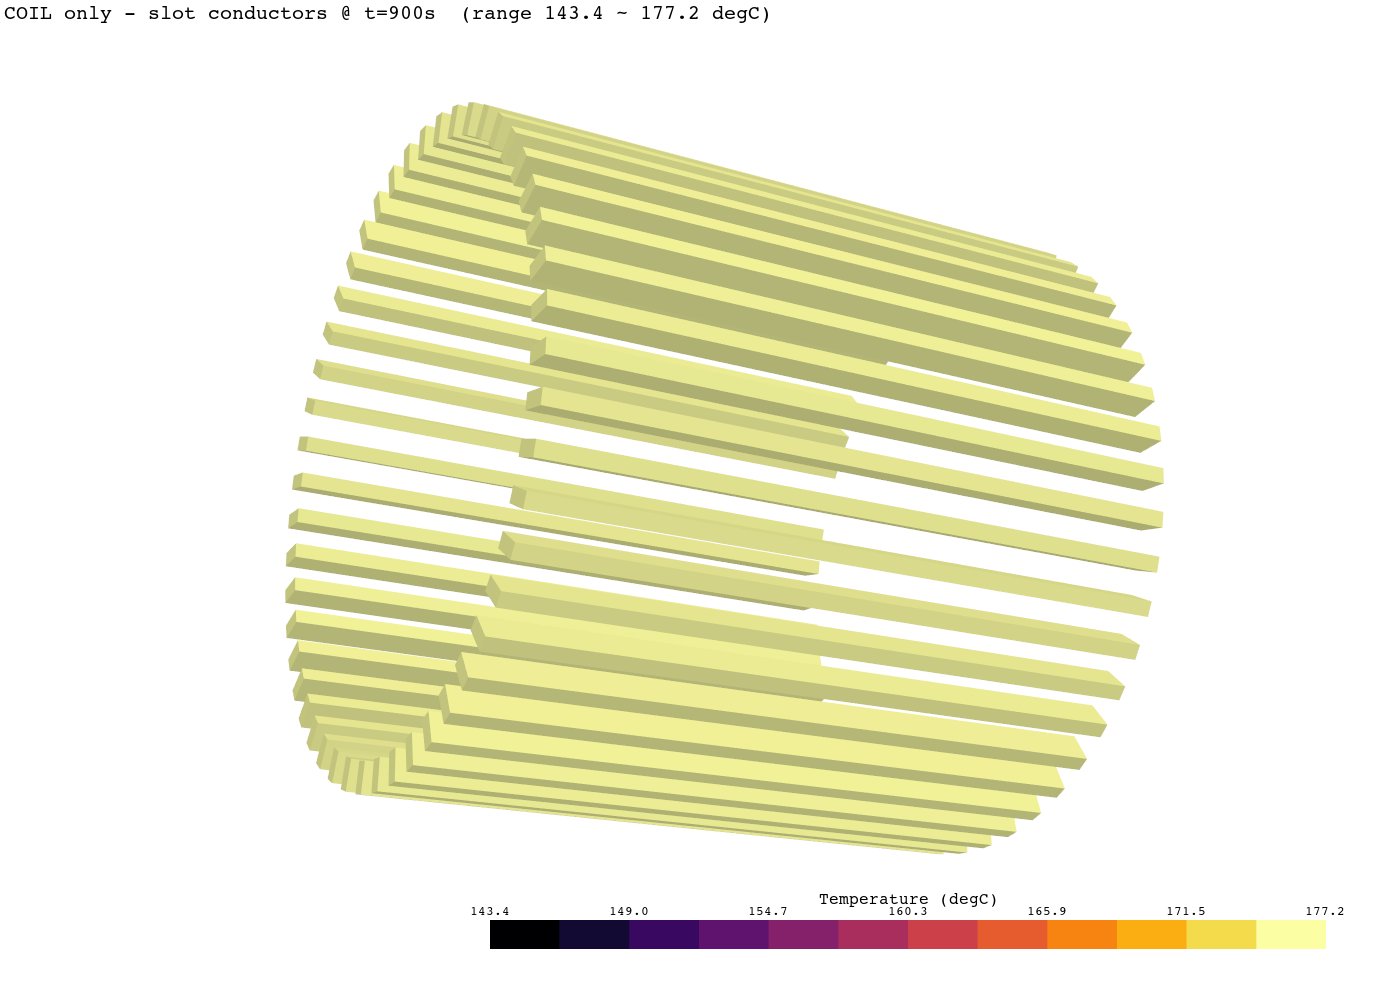
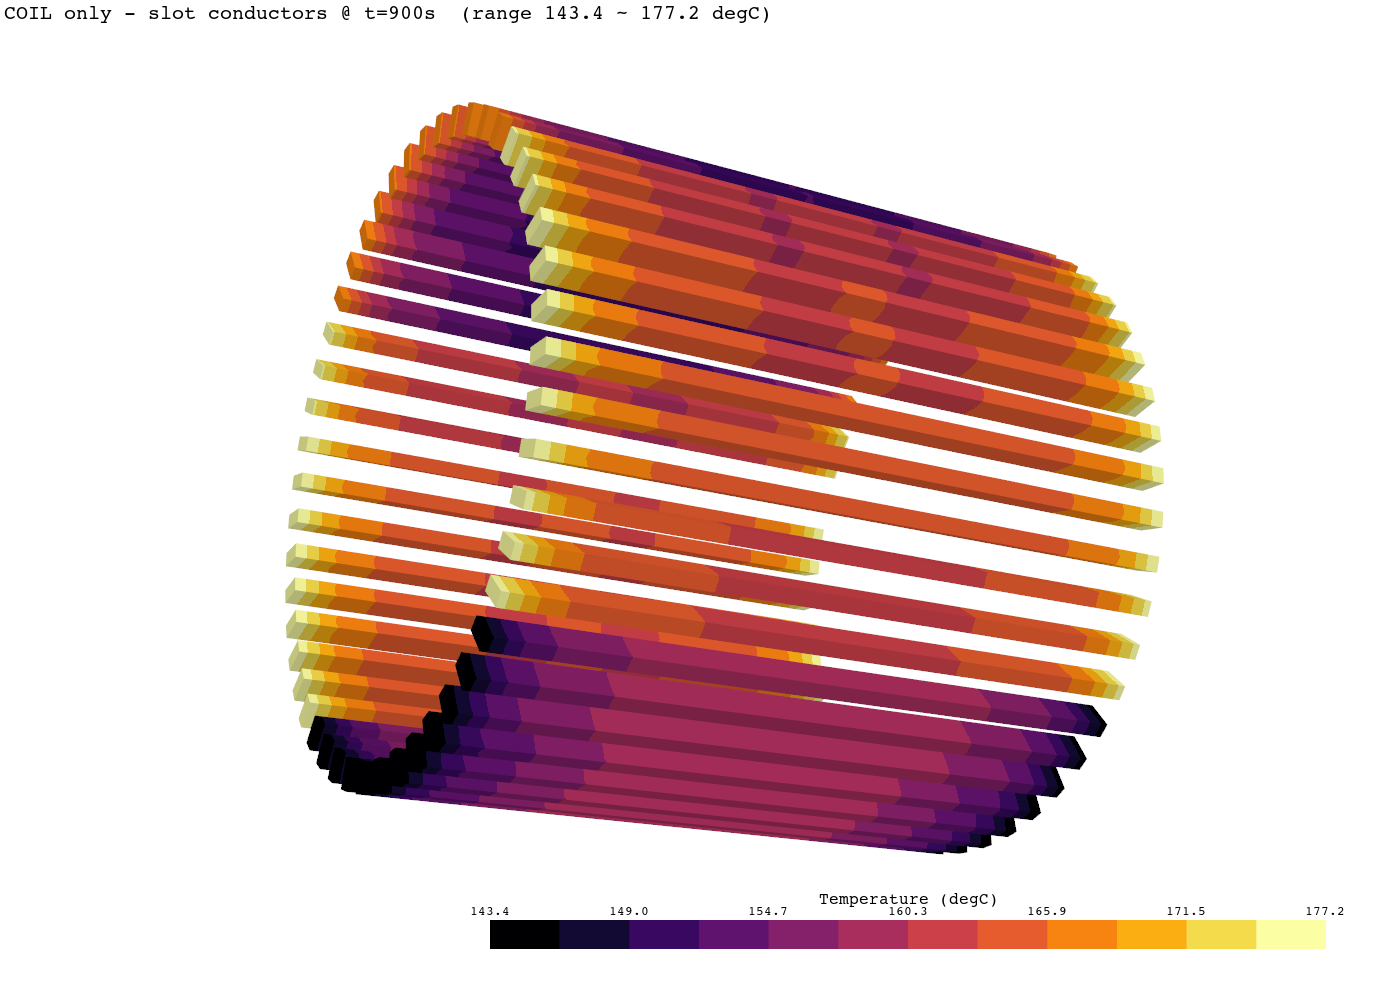
[THERMAL] GIF 컨투어 정지 버그 수정(scalars 명시) + 메시 상태 플롯 추가
버그: reader 그리드에 남은 잡동사니 point 배열(ansys_node_num, _CC* 셀렉션 등)이
active scalar 로 잡혀 온도 대신 노드번호가 렌더됨 -> 상한 클램프로 전 프레임
동일 노랑. 모든 add_mesh 에 scalars="Temperature (degC)" 명시로 수정.
-> GIF 3종(x0/내부부품/컷어웨이)과 banded 컨투어, 부품별 정적 뷰 전부 재생성
   (t=45s 코일 보라/자석 검정 -> t=900s 노랑, 이력 곡선대로 상승 확인)

메시 상태 플롯 (make_mesh_viz.py):
- real_mesh_overview.png: 재료별 색+에지 반단면 (187,728 tets/341,545 nodes)
- real_mesh_slice_z0.png / real_mesh_slot_zoom.png: z=0 단면 요소 에지 -
  슬롯 내 코일-슬롯벽 CAD 간극(정션 TCC 로 결합한 그 간극)과 자석 포켓
  플럭스배리어 공극이 그대로 보임

diff --git a/mlxperPJT/thermal/make_mesh_viz.py b/mlxperPJT/thermal/make_mesh_viz.py
@@ -1,0 +1,102 @@
+# -*- coding: utf-8 -*-
+"""메시 상태 플롯: 재료별 색 + 요소 에지 (개요 반단면 / z=0 단면 / 슬롯 확대)."""
+import os
+import glob
+import traceback
+import numpy as np
+
+SP = r"C:\Users\moa\AppData\Local\Temp\claude\d--KDH-NvidiaNemo\292f8893-fe65-44a6-9565-cb88503b2e90\scratchpad"
+OUT = os.path.join(SP, "viz_real")
+log = open(os.path.join(SP, "mesh_viz.txt"), "w", encoding="utf-8")
+def P(*a):
+    log.write(" ".join(str(x) for x in a) + "\n"); log.flush()
+
+try:
+    import pyvista as pv
+    from ansys.mapdl import reader as rd
+    pv.OFF_SCREEN = True
+
+    rth = sorted(glob.glob(os.path.join(SP, "real_*", "file.rth")),
+                 key=os.path.getmtime)[-1]
+    res = rd.read_binary(rth)
+    grid = res.grid.copy()
+    solid = grid.extract_cells(np.isin(grid.celltypes, (10, 24)))
+    mats = np.asarray(solid.cell_data["ansys_material_type"])
+    MATN = {1: "Stator lam", 2: "Magnet", 3: "Coil(slot)", 4: "Shaft",
+            5: "Rotor lam"}
+    COLS = {1: "#2a78d6", 2: "#e34948", 3: "#eda100", 4: "#e87ba4",
+            5: "#1baf7a"}
+    for m in sorted(MATN):
+        n = int((mats == m).sum())
+        P(f"mat{m} {MATN[m]}: {n} tets")
+    P("total:", solid.n_cells, "tets /", solid.n_points, "nodes")
+
+    def parts_of(mesh, marr):
+        return {m: mesh.extract_cells(np.where(marr == m)[0])
+                for m in sorted(MATN) if (marr == m).any()}
+
+    # ── ① 개요: 반단면(x<0 유지) 재료별 색 + 에지 ───────────────────────
+    p = pv.Plotter(off_screen=True, window_size=(1500, 1100))
+    p.set_background("white")
+    for m, part in parts_of(solid, mats).items():
+        surf = part.extract_surface()
+        half = surf.clip(normal=(1, 0, 0), origin=(0, 0, 0), invert=True)
+        if half.n_cells == 0:
+            continue
+        p.add_mesh(half, color=COLS[m], show_edges=True,
+                   edge_color="#3a3a35", line_width=0.4,
+                   lighting=True, ambient=0.55, diffuse=0.45,
+                   label=f"{MATN[m]}")
+    p.add_legend(bcolor="white", face=None, size=(0.20, 0.16),
+                 loc="lower right")
+    p.add_text(f"MESH by material - half section  "
+               f"({solid.n_cells:,} SOLID87 tets / {solid.n_points:,} nodes)",
+               font_size=12, color="black")
+    p.view_vector((1, -0.45, 0.35), viewup=(0, 1, 0))
+    p.camera.zoom(1.1)
+    p.screenshot(os.path.join(OUT, "real_mesh_overview.png"))
+    p.close()
+    P("saved overview")
+
+    # ── ② z=0 단면: 재료별 색 + 에지 ─────────────────────────────────────
+    sl = solid.slice(normal="z", origin=(0, 0, 0))
+    smat = np.asarray(sl.cell_data["ansys_material_type"])
+    p = pv.Plotter(off_screen=True, window_size=(1400, 1200))
+    p.set_background("white")
+    for m, part in parts_of(sl, smat).items():
+        p.add_mesh(part, color=COLS[m], show_edges=True,
+                   edge_color="#3a3a35", line_width=0.5, lighting=False,
+                   label=MATN[m])
+    p.add_legend(bcolor="white", face=None, size=(0.18, 0.15),
+                 loc="lower right")
+    p.add_text("MESH z=0 cross-section (element edges)", font_size=12,
+               color="black")
+    p.view_xy()
+    p.camera.zoom(1.25)
+    p.screenshot(os.path.join(OUT, "real_mesh_slice_z0.png"))
+    p.close()
+    P("saved slice z0")
+
+    # ── ③ 슬롯 확대 (상부 슬롯 부근): 코일-슬롯벽 간극 가시화 ────────────
+    p = pv.Plotter(off_screen=True, window_size=(1400, 1200))
+    p.set_background("white")
+    for m, part in parts_of(sl, smat).items():
+        p.add_mesh(part, color=COLS[m], show_edges=True,
+                   edge_color="#3a3a35", line_width=0.7, lighting=False,
+                   label=MATN[m])
+    p.add_legend(bcolor="white", face=None, size=(0.18, 0.15),
+                 loc="lower right")
+    p.add_text("MESH slot zoom @ z=0 (coil-slot liner gap visible)",
+               font_size=12, color="black")
+    p.view_xy()
+    p.camera.focal_point = (0.0, 0.0755, 0.0)      # 상부 슬롯 밴드
+    p.camera.position = (0.0, 0.0755, 0.16)
+    p.camera.zoom(1.0)
+    p.screenshot(os.path.join(OUT, "real_mesh_slot_zoom.png"))
+    p.close()
+    P("saved slot zoom")
+    P("DONE-OK")
+except Exception:
+    P("EXC:", traceback.format_exc())
+finally:
+    log.close(); os._exit(0)

diff --git a/mlxperPJT/thermal/make_fem_transient_gif.py b/mlxperPJT/thermal/make_fem_transient_gif.py
@@ -58,10 +58,10 @@ try:
         sl = solid.slice(normal="x")
         pl = pv.Plotter(off_screen=True, window_size=(1000, 780))
         pl.set_background("white")
-        pl.add_mesh(ext_half, cmap="inferno", clim=clim, n_colors=14,
+        pl.add_mesh(ext_half, scalars="Temperature (degC)", cmap="inferno", clim=clim, n_colors=14,
                     lighting=True, ambient=0.6, diffuse=0.4, specular=0.0,
                     scalar_bar_args=sb)
-        pl.add_mesh(sl, cmap="inferno", clim=clim, n_colors=14,
+        pl.add_mesh(sl, scalars="Temperature (degC)", cmap="inferno", clim=clim, n_colors=14,
                     lighting=False, show_scalar_bar=False)
         pl.add_text(f"t = {times[i]:5.0f} s   half-section "
                     f"(top: WJ / bottom: ATF)", font_size=13, color="black")
@@ -85,10 +85,10 @@ try:
         pl.set_background("white")
         pl.add_mesh(ghost, color="#d9d6c8", opacity=0.08, lighting=True,
                     ambient=0.5)
-        pl.add_mesh(coil, cmap="inferno", clim=clim, n_colors=14,
+        pl.add_mesh(coil, scalars="Temperature (degC)", cmap="inferno", clim=clim, n_colors=14,
                     lighting=True, ambient=0.6, diffuse=0.4, specular=0.0,
                     scalar_bar_args=sb)
-        pl.add_mesh(mag, cmap="inferno", clim=clim, n_colors=14,
+        pl.add_mesh(mag, scalars="Temperature (degC)", cmap="inferno", clim=clim, n_colors=14,
                     lighting=True, ambient=0.6, diffuse=0.4, specular=0.0,
                     show_scalar_bar=False)
         cm_, mm_ = float(np.nanmax(T[cpid])), float(np.nanmax(T[mpid]))

diff --git a/mlxperPJT/thermal/make_real_transient_viz.py b/mlxperPJT/thermal/make_real_transient_viz.py
@@ -38,9 +38,11 @@ try:
     # 전 시간 최대/최소 (고정 컬러스케일)
     _, T_last = res.nodal_temperature(nsets - 1)
     T_last = np.asarray(T_last, float)
-    tmax = float(np.nanmax(T_last))
+    Ts = T_last[opid]                       # 솔리드 노드만 (회로 노드 제외!)
+    tmax = float(np.nanmax(Ts))
     clim = [70.0, tmax]
-    P("clim:", clim)
+    P("solid-only clim:", [round(c,1) for c in clim],
+      "| body range:", round(float(np.nanmin(Ts)),1), "~", round(tmax,1))
 
     # ── ① transient GIF (x=0 슬라이스, y-위) ────────────────────────────
     gif = os.path.join(OUT, "real_transient_x0.gif")
@@ -53,7 +55,8 @@ try:
         sl = solid.slice(normal="x")
         p.clear()
         p.set_background("white")
-        p.add_mesh(sl, cmap="inferno", clim=clim, lighting=False,
+        p.add_mesh(sl, scalars="Temperature (degC)", cmap="inferno", clim=clim, lighting=False,
+                   n_colors=14,
                    scalar_bar_args=dict(title="Temperature (degC)",
                                         title_font_size=14,
                                         label_font_size=12, n_labels=6,

diff --git a/mlxperPJT/thermal/make_internal_viz.py b/mlxperPJT/thermal/make_internal_viz.py
@@ -55,7 +55,7 @@ try:
         if ghost is not None:
             p.add_mesh(ghost.extract_surface(), color="#d9d6c8",
                        opacity=0.10, lighting=True, ambient=0.5)
-        kw = dict(cmap="inferno", clim=clim, n_colors=12,
+        kw = dict(scalars="Temperature (degC)", cmap="inferno", clim=clim, n_colors=12,
                   scalar_bar_args=sb)
         if view == "xy":
             kw.update(lighting=False)          # 평면 뷰는 무조명 평면색

diff --git a/mlxperPJT/thermal/make_banded_contours.py b/mlxperPJT/thermal/make_banded_contours.py
@@ -37,7 +37,7 @@ try:
     for fname, mesh, clim, nc, lit in views:
         p = pv.Plotter(off_screen=True, window_size=(1280, 960))
         p.set_background("white")
-        kw = dict(cmap="inferno", clim=clim, n_colors=nc,
+        kw = dict(scalars="Temperature (degC)", cmap="inferno", clim=clim, n_colors=nc,
                   scalar_bar_args=sb, below_color="#3987e5")
         if lit:
             kw.update(smooth_shading=True, ambient=0.62, diffuse=0.38,
